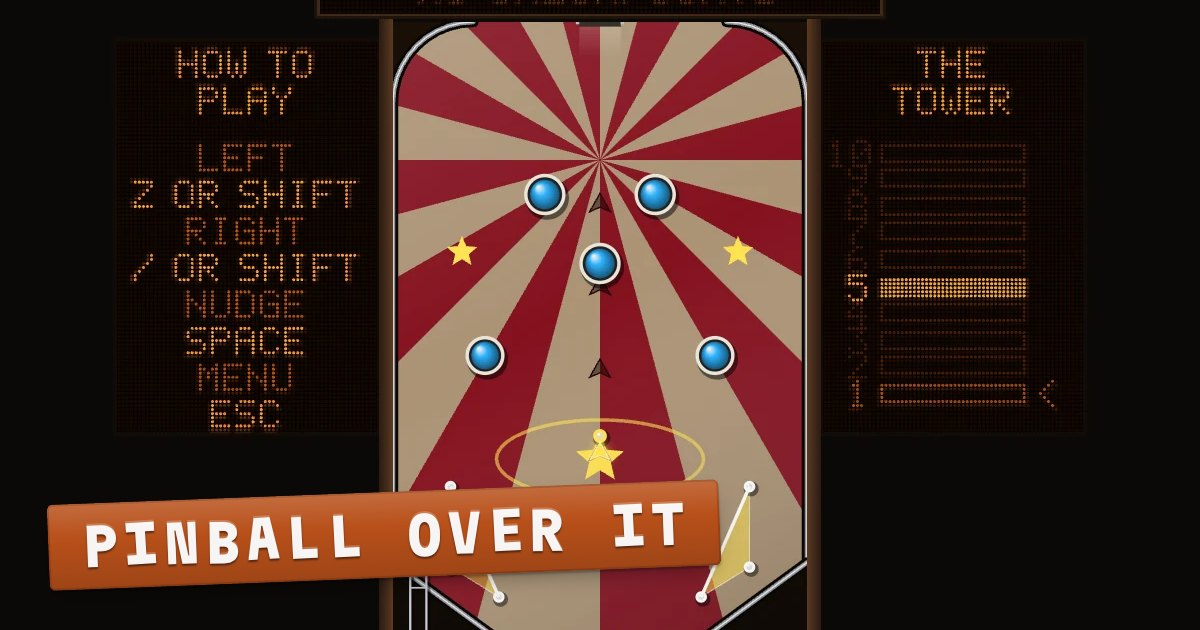
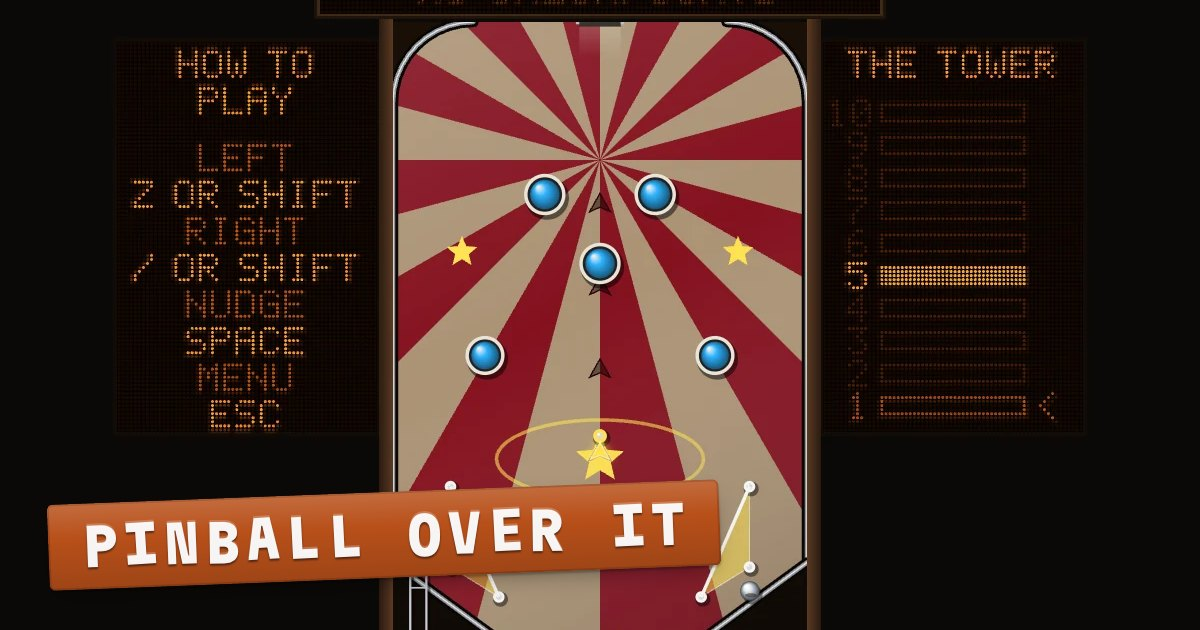
Playtest: Pinball Over It: make the menu actually pause, stop How to Play wiping the climb, fit phones held sideways, stop falls dropping straight down the middle
- The pause menu froze nothing: the ball kept rolling and could drain behind it
- How to Play sent the saved climb back to table 1; the lesson now borrows the ground floor, returns you to your table, and can be skipped from the menu
- Shooting the gate early in the lesson, or Start Over during it, no longer leaves the lesson running
- A won climb can't be continued and won again after a reload
- Falls enter on a varied line instead of the same one every time (sloppy-bot quick drains 18/100 to 9/100, Robot Works 10/10 to 0/10)
- Short wide screens: full-height table with the sign beside it, menus sized to the screen, side cards on screen
- Sign clock uses real time, so messages aren't cut short on 120Hz screens; new-height messages fit; words stay off the tower meter
- Tower card digits no longer smear; Resume and Sure? labels fit their buttons

diff --git a/overit/main.js b/overit/main.js
@@ -10,6 +10,7 @@ import { makeBot, botStep } from './bot.js';
 const params = new URLSearchParams(location.search);
 const DEMO = params.has('demo'), DEBUG = params.has('debug'), AUTO = DEBUG && params.has('autoplay');
 const GAP = 90, METRES = 3;  // each table is "3 m" of tower
+const METER = 117;  // DMD columns left of the little tower meter
 const LAST = TABLES.length - 1;
 const KEY = 'overit.v1';
 
@@ -48,9 +49,9 @@ function enterTable(i, how) {
   looks[i] = G.table;
   G.camY = off(i);
   if (how === 'arrive') placeBall(G.table, ARRIVE.x, ARRIVE.y, ARRIVE.vx, 0);
-  else if (how === 'fall') placeBall(G.table, G.table.gate.x, 16, 0, 320);
+  else if (how === 'fall') placeBall(G.table, G.table.gate.x, 16, (Math.random() < 0.5 ? -1 : 1) * (50 + Math.random() * 70), 320);  // never the same line twice, and never straight down the middle
   else if (how === 'park') { placeBall(G.table, ARRIVE.x, ARRIVE.y, 0, 0); G.table.ball.live = false; }
-  save.table = i;
+  if (!G.tut) save.table = i;
   persist();
 }
 
@@ -69,12 +70,26 @@ function layout() {
   if (dx + dw > vw - 8) { dw = vw - 8 - dx; dh = dw / 4; }
   dmdRect = { x: dx, y: safeT, w: dw, h: dh };
   const top = safeT + dh + 8;
-  const s = Math.min(vw / W, (vh - top - safeB) / H);
+  let s = Math.min(vw / W, (vh - top - safeB) / H);
+  const tall = (vh - safeT - safeB) / H, gutter = (vw - W * tall) / 2 - 24;
+  if (landscape && s < 0.75 && gutter >= 150) {
+    // a short, wide screen: the table takes the full height and the sign moves beside it, below the Home button
+    s = tall;
+    const tw = W * s, y = safeT + 52;
+    view = { x: (vw - tw) / 2, y: safeT, s, w: tw, h: H * s };
+    dw = Math.min(560, gutter); dh = dw / 4;
+    dmdRect = { x: 8 + (gutter - dw) / 2, y, w: dw, h: dh };
+    const ch = Math.min(vh - y - dh - 22, gutter * 1.5), cw = ch / 1.5;
+    const rh = Math.min(vh - safeT - safeB, gutter * 1.5), rw = rh / 1.5;
+    sideRects = ch >= 110 ? [{ x: 8 + (gutter - cw) / 2, y: y + dh + 14, w: cw, h: ch }, { x: view.x + tw + 16 + (gutter - rw) / 2, y: safeT, w: rw, h: rh }] : null;
+    statics.clear();
+    return;
+  }
   const tw = W * s, th = H * s;
   view = { x: (vw - tw) / 2, y: top + Math.max(0, (vh - top - safeB - th) / 2), s, w: tw, h: th };
   const room = (vw - tw) / 2 - 24;
   sideRects = room >= 150 ? (() => {
-    const w = Math.min(260, room), h = w * 1.5;
+    const h = Math.min(Math.min(260, room) * 1.5, vh - view.y - 28), w = h / 1.5;
     return [{ x: view.x - 16 - w, y: view.y + 20, w, h }, { x: view.x + tw + 16, y: view.y + 20, w, h }];
   })() : null;
   statics.clear();
@@ -88,7 +103,7 @@ function staticFor(i) {
 // ---- input -----------------------------------------------------------------------------------
 const keys = { l: false, r: false };
 const pointers = new Map();
-let lastInput = 'mouse';
+let lastInput = window.matchMedia?.('(pointer: coarse)').matches ? 'touch' : 'mouse';
 const held = () => {
   let l = keys.l, r = keys.r;
   for (const p of pointers.values()) { if (p.side < 0) l = true; else if (p.side > 0) r = true; }
@@ -186,13 +201,16 @@ function drawDmd(dt) {
     if (k === 0) {
       dmd.text(`TABLE ${G.ti + 1}`, 2, 2);
       const nm = TABLES[G.ti].name;
-      if (textWidth(nm, 2) <= 124) dmd.center(nm, 14, 2); else dmd.center(nm, 17, 1);
+      const big = textWidth(nm, 2) <= METER ? 2 : 1;
+      dmd.text(nm, Math.floor((METER - textWidth(nm, big)) / 2), big === 2 ? 14 : 17, big);
     } else if (k === 1) {
       dmd.text('HEIGHT', 2, 2); dmd.text(`${ht.toFixed(1)} M`, 2, 12, 2);
-      dmd.text(`BEST ${Math.max(save.best, G.ti) + 1}`, 82, 2);
+      const bs = `BEST ${Math.max(save.best, G.ti) + 1}`;
+      dmd.text(bs, METER - textWidth(bs), 2);
     } else {
       dmd.text('FALLEN', 2, 2); dmd.text(`${save.fallen * METRES} M`, 2, 12, 2);
-      dmd.text(`${save.falls} DRAINS`, 72, 2);
+      const ds = `${save.falls} DRAINS`;
+      dmd.text(ds, METER - textWidth(ds), 2);
     }
     // the tower: ten little floors, the ball on its own floor
     for (let i = 0; i <= LAST; i++) {
@@ -242,7 +260,8 @@ function goUp() {
 }
 function goDown(x) {
   snd.down();
-  save.falls++;
+  queue.length = 0;
+  if (!G.tut) save.falls++;
   if (G.ti === 0) {
     G.trans = { dir: 0, t: 0, dur: 1.1, path: null, cam0: G.camY, cam1: G.camY, to: 0 };
     G.mode = 'trans';
@@ -264,8 +283,8 @@ function finishTrans() {
     if (newBest) save.best = tr.to;
     persist();
     if (G.streak > 0) G.streak = 0;
-    if (G.tut && G.tut.step === 'gate') { tutStep('done'); return; }
-    if (newBest) say(`NEW HEIGHT!  TABLE ${tr.to + 1}: ${TABLES[tr.to].name}.  ${TABLES[tr.to].trick}`, 5, { prio: 2 });
+    if (G.tut) { tutStep('done'); return; }
+    if (newBest) { say(`NEW HEIGHT!  TABLE ${tr.to + 1}: ${TABLES[tr.to].name}`, 2.5, { prio: 2 }); later(TABLES[tr.to].trick, 3.5); }
     else say(`TABLE ${tr.to + 1}: ${TABLES[tr.to].name}`, 2.5, { prio: 1 });
   } else if (tr.dir === -1) {
     save.fallen++;
@@ -278,6 +297,7 @@ function finishTrans() {
     // drained on the ground floor
     snd.ground();
     G.streak = 0;
+    persist();
     placeBall(G.table, ARRIVE.x, ARRIVE.y, ARRIVE.vx, 0);
     G.table.tilted = false; G.table.tiltMeter = 0;
     if (!G.tut) say('GROUND FLOOR. THE BALL COMES BACK.', 2.5, { prio: 1 });
@@ -289,6 +309,7 @@ function win() {
   save.best = LAST;
   const tm = save.time;
   if (!save.bestTime || tm < save.bestTime) save.bestTime = tm;
+  save.table = 0;  // the climb is over: nothing to continue after a reload
   persist();
   snd.win();
   G.mode = 'won';
@@ -299,7 +320,9 @@ function win() {
 // ---- tutorial --------------------------------------------------------------------------------
 // Steps on the ground floor: left, right, catch, nudge, then shoot through the gate.
 function startTutorial() {
-  G.tut = { step: '', t: 0, nudged: false, okL: false, okR: false };
+  // the lesson is on the ground floor, whatever floor the climb is on: back is where to return to
+  G.tut = { step: '', t: 0, nudged: false, okL: false, okR: false, back: G.tut ? G.tut.back : save.table };
+  G.trans = null;
   enterTable(0, 'park');
   G.mode = 'play';
   tutStep('left');
@@ -310,7 +333,14 @@ function tutStep(s) {
   if (s === 'catch') { placeBall(G.table, ARRIVE.x, ARRIVE.y, ARRIVE.vx, 0); tu.cradle = 0; }
   if (s === 'done') {
     G.tut = null;
-    save.tut = true; persist();
+    save.tut = true;
+    if (tu.back > 0) {
+      enterTable(tu.back, 'arrive');
+      say(`BACK TO TABLE ${tu.back + 1}: ${TABLES[tu.back].name}`, 3, { prio: 3 });
+      return;
+    }
+    save.table = G.ti; persist();
+    if (!G.table.ball.live) placeBall(G.table, ARRIVE.x, ARRIVE.y, ARRIVE.vx, 0);
     say('DRAIN HERE AND YOU FALL BACK DOWN A TABLE. NO LIVES. NO CHECKPOINTS.', 5, { prio: 3 });
     later(lastInput === 'touch' ? 'TAP THIS SIGN ANY TIME FOR THE MENU.' : 'ESC OR A CLICK ON THIS SIGN OPENS THE MENU.', 3.5);
     later('GOOD LUCK.', 2);
@@ -353,7 +383,7 @@ function showOverlay(kind) {
   if (kind === 'title') {
     lines = [['PINBALL', 2], ['OVER IT', 2], ['', 1], ['TEN PINBALL TABLES, STACKED. SHOOT THROUGH THE GATE TO CLIMB. DRAIN AND YOU FALL A TABLE.', 1], ['', 1]];
     if (save.table > 0 || save.tut) {
-      if (save.table > 0) items.push({ label: `CONTINUE  ${save.table + 1}/10`, act: () => { closeOverlay(); enterTable(save.table, 'arrive'); G.mode = 'play'; say(`TABLE ${save.table + 1}: ${TABLES[save.table].name}`, 2.5); } });
+      if (save.table > 0) items.push({ label: `RESUME ${save.table + 1}/10`, act: () => { closeOverlay(); enterTable(save.table, 'arrive'); G.mode = 'play'; say(`TABLE ${save.table + 1}: ${TABLES[save.table].name}`, 2.5); } });
       items.push({ label: save.table > 0 ? 'NEW CLIMB' : 'PLAY', act: () => { closeOverlay(); newClimb(); } });
       items.push({ label: 'HOW TO PLAY', act: () => { closeOverlay(); startTutorial(); } });
     } else items.push({ label: 'PLAY', act: () => { closeOverlay(); startTutorial(); } });
@@ -361,8 +391,10 @@ function showOverlay(kind) {
     lines = [['PAUSED', 2], ['', 1], [`TABLE ${G.ti + 1} OF 10`, 1], [`BEST: TABLE ${save.best + 1}`, 1], [`FALLEN: ${save.fallen * METRES} M`, 1], [`TIME: ${fmtTime(save.time)}`, 1], ['', 1]];
     items.push({ label: 'RESUME', act: closeOverlay });
     items.push({ label: () => `SOUND: ${snd.on ? 'ON' : 'OFF'}`, act: () => { snd.on = !snd.on; save.sound = snd.on; persist(); } });
-    items.push({ label: 'HOW TO PLAY', act: () => { closeOverlay(); startTutorial(); } });
-    items.push({ label: () => G.overlay.confirm ? 'SURE? TAP AGAIN' : 'START OVER', act: () => { if (G.overlay.confirm) { closeOverlay(); newClimb(); } else G.overlay.confirm = true; } });
+    items.push(G.tut
+      ? { label: 'SKIP LESSON', act: () => { closeOverlay(); G.trans = null; G.mode = 'play'; tutStep('done'); } }
+      : { label: 'HOW TO PLAY', act: () => { closeOverlay(); startTutorial(); } });
+    items.push({ label: () => G.overlay.confirm ? 'SURE? AGAIN' : 'START OVER', act: () => { if (G.overlay.confirm) { closeOverlay(); newClimb(); } else G.overlay.confirm = true; } });
   } else if (kind === 'won') {
     lines = [['YOU GOT', 2], ['OVER IT', 2], ['', 1], ['THE TOP OF THE TOWER.', 1], [`TIME: ${fmtTime(save.time)}`, 1], [`FALLEN: ${save.fallen * METRES} M`, 1], [`DRAINS: ${save.falls}`, 1], ['', 1]];
     items.push({ label: 'CLIMB AGAIN', act: () => { closeOverlay(); msg = null; newClimb(); } });
@@ -374,7 +406,7 @@ function openMenu() { if (G.mode === 'title' || G.mode === 'won' || DEMO) return
 function newClimb() {
   const keep = { tut: save.tut, sound: save.sound, wins: save.wins, bestTime: save.bestTime };
   save = { ...fresh(), ...keep };
-  G.streak = 0;
+  G.streak = 0; G.tut = null;
   if (!save.tut) { startTutorial(); return; }
   enterTable(0, 'arrive');
   G.mode = 'play';
@@ -425,8 +457,11 @@ function drawOverlay() {
     rowsUsed.push([y, 13]);
     y += 16;
   });
-  const w = Math.min(view.w * 0.92, 440), pitch = w / pane.cols, h = rows * pitch;
-  const x = (vw - w) / 2, top = Math.max(dmdRect.y + dmdRect.h + 8, view.y + (view.h - h) * 0.42);
+  // as wide as the table where that fits, and otherwise as big as the screen allows
+  const w = view.w >= 300 ? Math.min(view.w * 0.92, 440) : Math.min(440, vw * 0.92, (vh - 16) * pane.cols / rows), pitch = w / pane.cols, h = rows * pitch;
+  const x = (vw - w) / 2;
+  let top = Math.max(dmdRect.y + dmdRect.h + 8, view.y + (view.h - h) * 0.42);
+  if (top + h > vh - 8) top = Math.max(8, (vh - h) / 2);
   ctx.setTransform(1, 0, 0, 1, 0, 0);
   ctx.fillStyle = '#ff7a1a';
   ctx.fillRect((x - 3) * dpr, (top - 3) * dpr, (w + 6) * dpr, (h + 6) * dpr);
@@ -450,9 +485,9 @@ function drawSides() {
   side.render(ctx, a.x * dpr, a.y * dpr, a.w * dpr, a.h * dpr);
 
   side2.clear();
-  side2.center('THE', 2); side2.center('TOWER', 11);
+  side2.center('THE TOWER', 2);
   for (let i = 0; i <= LAST; i++) {
-    const yy = 88 - i * 6.6;
+    const yy = 91 - i * 8;
     const cur = i === G.ti;
     const v = cur ? 1 : i <= save.best ? 0.55 : 0.18;
     side2.rect(14, Math.round(yy) - 4, 36, 5, v, cur);
@@ -469,6 +504,7 @@ function update(dt) {
   if (G.shake > 0) G.shake -= dt;
   if (G.flash > 0) G.flash -= dt;
   if (G.tutDone > 0) G.tutDone -= dt;
+  if (G.overlay) return;  // the menu pauses everything
   if (G.mode === 'play') {
     const t = G.table;
     if (DEMO || AUTO) botStep(G.bot || (G.bot = makeBot({})), t, dt);
@@ -482,7 +518,7 @@ function update(dt) {
       lastFlip[i] = h;
     }
     step(t);
-    if (!DEMO) save.time += dt;
+    if (!DEMO && !G.tut) save.time += dt;
     for (const e of t.events.splice(0)) handle(e);
     tutUpdate(dt);
   } else if (G.mode === 'trans') {
@@ -512,7 +548,7 @@ function handle(e) {
   }
 }
 
-function render() {
+function render(dt = 1 / 60) {
   ctx.setTransform(1, 0, 0, 1, 0, 0);
   ctx.fillStyle = '#0c0907';
   ctx.fillRect(0, 0, cv.width, cv.height);
@@ -559,7 +595,7 @@ function render() {
   }
   ctx.restore();
   if (G.tut && G.mode === 'play') drawTutorialCard();
-  drawDmd(1 / 60);
+  drawDmd(dt);
   drawSides();
   drawOverlay();
 }
@@ -618,11 +654,13 @@ function frame(ts) {
     acc += dt;
     while (acc >= STEP) { try { update(STEP); } catch (err) { console.error(err); } acc -= STEP; }
   }
-  try { render(); } catch (err) { console.error(err); }
+  try { render(dt); } catch (err) { console.error(err); }
 }
 
 // ---- boot ---------------------------------------------------------------------------------
 window.addEventListener('resize', layout);
+window.addEventListener('pagehide', persist);
+document.addEventListener('visibilitychange', () => { if (document.hidden) persist(); });
 layout();
 if (DEMO) {
   const ti = +(params.get('table') ?? 4);
